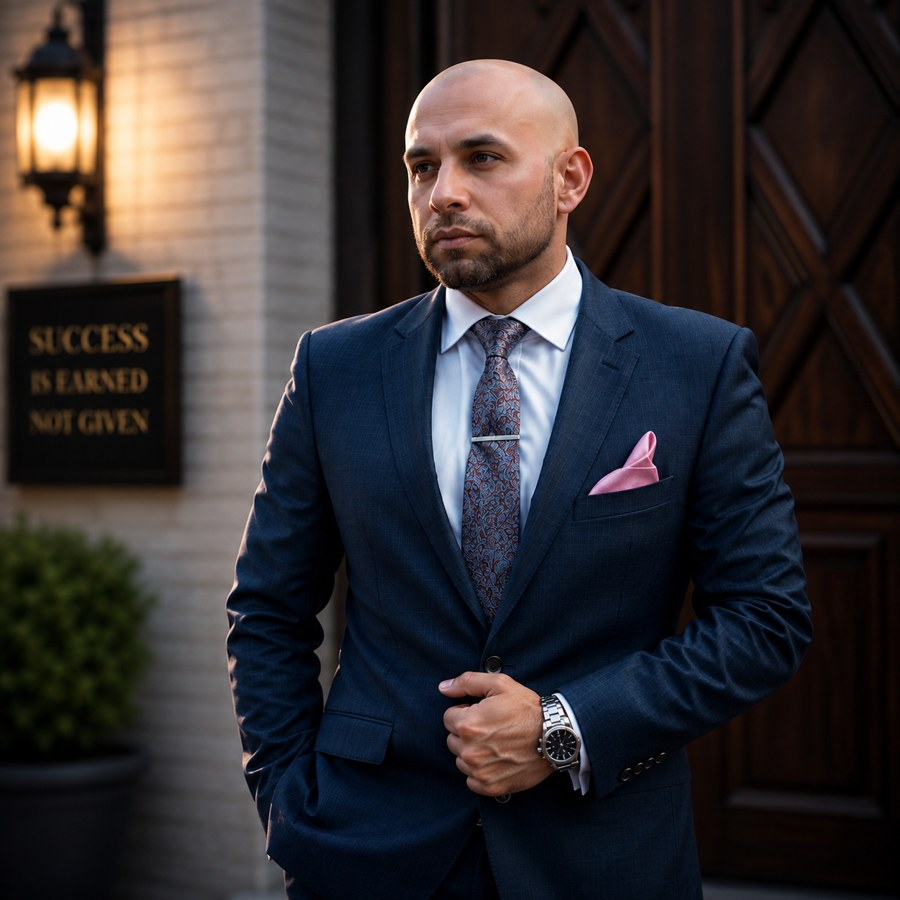
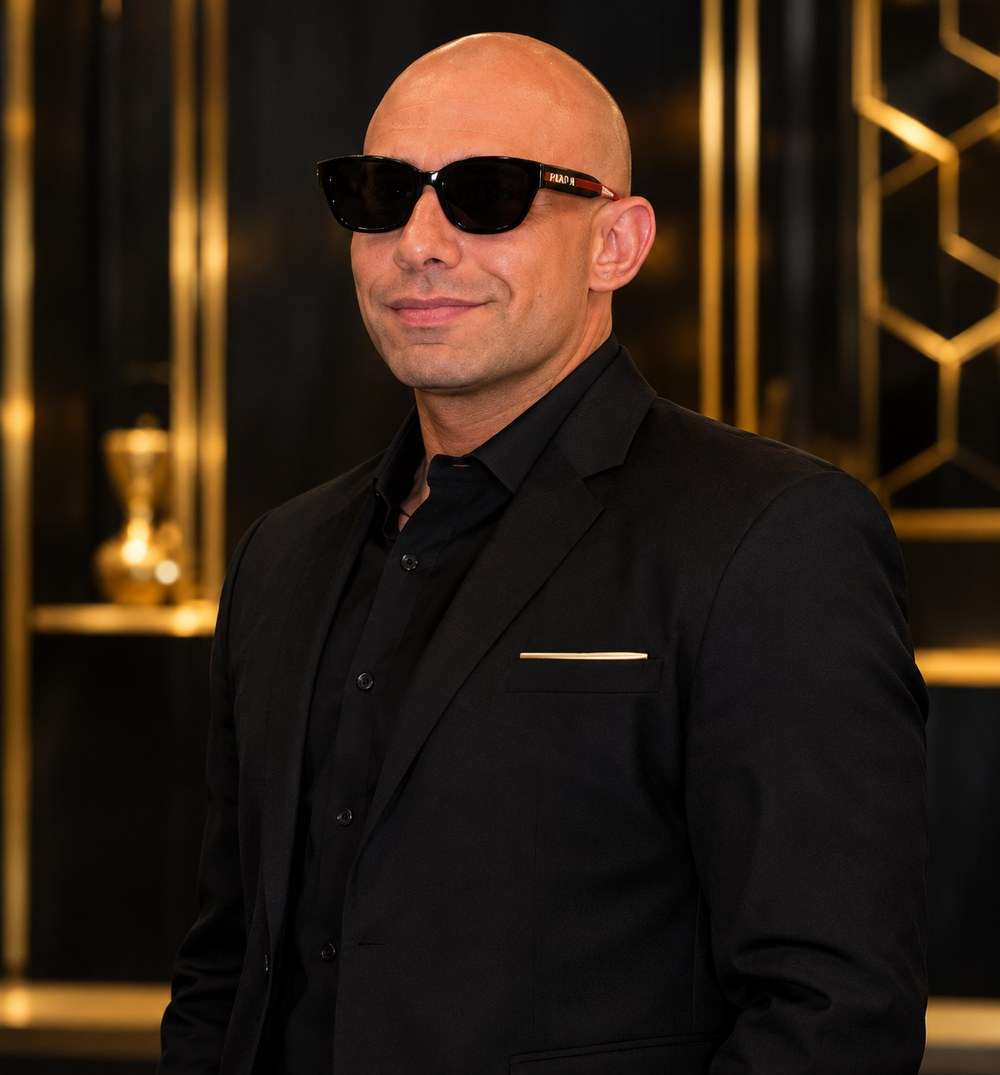
New founder portrait for Meet Aaron Lee section
Claude-Session: https://claude.ai/code/session_012CsMWCEPQT8MeCsTnRAzbG

diff --git a/index.html b/index.html
@@ -538,7 +538,7 @@
                 <div class="relative aspect-[4/4.3] bg-gradient-to-b from-[#1c1912] to-obsidian flex items-center justify-center overflow-hidden">
                   <img
                     id="founderPhotoImg"
-                    src="image_7487d3.jpg"
+                    src="image_7487d3.jpg?v=2"
                     alt="Aaron Lee - Founder of Granted Capital Funding"
                     onerror="this.src='https://placehold.co/500x540/141418/D4AF37?text=Aaron+Lee%0AFounder+%26+CEO'"
                     class="w-full h-full object-cover object-top"
@@ -641,7 +641,7 @@
                 controls
                 playsinline
                 preload="metadata"
-                poster="image_7487d3.jpg"
+                poster="image_7487d3.jpg?v=2"
                 class="absolute inset-0 w-full h-full object-contain bg-black"
               >
                 <source id="introVideoSource" src="aron-about.mp4" type="video/mp4" />
@@ -1595,7 +1595,7 @@
     // ---------------------------------------------------------
     // 1. DEFAULT DATA & STATE (Persisted via localStorage)
     // ---------------------------------------------------------
-    const DEFAULT_FOUNDER_PHOTO = 'image_7487d3.jpg';
+    const DEFAULT_FOUNDER_PHOTO = 'image_7487d3.jpg?v=2';
     const DEFAULT_INTRO_VIDEO = 'aron-about.mp4';
 
     const DEFAULT_PROOF_ITEMS = [
@@ -1756,7 +1756,7 @@
       tiktok: 'https://www.tiktok.com/@guaranteedcapandcred'
     };
 
-    let founderPhoto = localStorage.getItem('gcf_founder_photo_v3') || DEFAULT_FOUNDER_PHOTO;
+    let founderPhoto = localStorage.getItem('gcf_founder_photo_v4') || DEFAULT_FOUNDER_PHOTO;
     let localVideoObjectUrl = null;
     let proofItems = JSON.parse(localStorage.getItem('gcf_proof_items_v5')) || [...DEFAULT_PROOF_ITEMS];
     let clientReviews = JSON.parse(localStorage.getItem('gcf_reviews_v2')) || [...DEFAULT_REVIEWS];
@@ -1924,7 +1924,7 @@
           const ctx = canvas.getContext('2d');
           ctx.drawImage(img, 0, 0, canvas.width, canvas.height);
           founderPhoto = canvas.toDataURL('image/jpeg', 0.86);
-          localStorage.setItem('gcf_founder_photo_v3', founderPhoto);
+          localStorage.setItem('gcf_founder_photo_v4', founderPhoto);
           renderFounderPhoto();
         };
         img.src = e.target.result;
@@ -1934,7 +1934,7 @@
 
     function resetFounderPhoto() {
       founderPhoto = DEFAULT_FOUNDER_PHOTO;
-      localStorage.removeItem('gcf_founder_photo_v3');
+      localStorage.removeItem('gcf_founder_photo_v4');
       renderFounderPhoto();
     }
 
